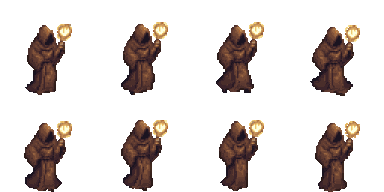
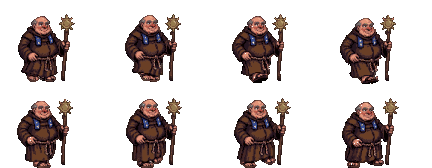
Loup, Moine et Troll : nouvelles images de combat et animations
Le loup redessiné (attaque en bond, marche gueule fermée), le Moine en frère
lanceur de sorts (une boule de lumière part de son bâton), le Troll calme à la
barbe sombre. Les anciennes images restent comme modèles dans tools/art/modeles.

diff --git a/godot/scripts/Game/BattleEffects.cs b/godot/scripts/Game/BattleEffects.cs
@@ -247,6 +247,7 @@ public sealed class BattleEffects
     private static double Speed(string kind) => kind switch
     {
         "boule-feu" => 1100,
+        "boule-lumiere" => 1100,
         "boule-poison" => 1500,
         "hache" => 1200,
         "feuilles" => 1000,
@@ -263,6 +264,7 @@ public sealed class BattleEffects
     {
         "fleche" => "piqure",
         "boule-feu" => "feu",
+        "boule-lumiere" => "lumiere",
         "eclair" => "eclair",
         "rayon" => "rayon",
         "boule-poison" => "poison",
@@ -663,6 +665,21 @@ public sealed class BattleEffects
                 Blob(canvas, here, 1, new Color(1, 0.85f + 0.15f * pulse, 0.45f));
                 break;
             }
+            case "boule-lumiere":
+            {
+                // le sort du Moine : une boule de lumière blanche et dorée qui palpite, des grains clairs qui s'éteignent derrière elle
+                float glow = 0.5f + 0.5f * MathF.Sin((float)p.Age * 30);
+                for (int k = 1; k <= 6; k++)
+                {
+                    float back = Math.Max(0, t - k * 0.035f);
+                    var c = new Color(1, 0.93f, 0.65f, 0.9f - k * 0.13f);
+                    Blob(canvas, At(back) + new Vector2(0, ((k * 37) % 5 - 2) * U * 0.6f), k < 3 ? 1 : 0, c);
+                }
+                Blob(canvas, here, 4, new Color(1, 0.8f, 0.35f, 0.75f));
+                Blob(canvas, here, 3, new Color(1, 0.93f, 0.6f));
+                Blob(canvas, here, 1, new Color(1, 1, 0.85f + 0.15f * glow));
+                break;
+            }
             case "feuilles":
             {
                 // le sort du Druide : un tourbillon de feuilles vertes qui tourne sur lui-même, et des feuilles qui
@@ -1030,6 +1047,7 @@ public sealed class BattleEffects
             // un éclat bref et discret : quelques grains qui jaillissent puis tombent et s'éteignent
             "piqure" => (5, new[] { new Color(1, 1, 0.9f), new Color(0.6f, 0.45f, 0.3f) }, 7f, 1),
             "feu" => (9, new[] { new Color(1, 0.85f, 0.4f), new Color(1, 0.5f, 0.1f), new Color(0.6f, 0.2f, 0.1f) }, 9f, 2),
+            "lumiere" => (9, new[] { new Color(1, 1, 0.9f), new Color(1, 0.88f, 0.5f), new Color(0.9f, 0.68f, 0.3f) }, 9f, 2),
             "morsure" => (6, new[] { new Color(0.85f, 0.15f, 0.15f), new Color(1, 0.9f, 0.85f) }, 6f, 1),
             "poison" => (9, new[] { new Color(0.6f, 0.95f, 0.35f), new Color(0.3f, 0.6f, 0.2f) }, 8f, 1),
             "feuilles" => (12, new[] { new Color(0.55f, 0.85f, 0.3f), new Color(0.3f, 0.6f, 0.2f), new Color(0.8f, 0.9f, 0.35f) }, 10f, 1),

diff --git a/tools/art/creature.py b/tools/art/creature.py
@@ -115,7 +115,7 @@ def cmd_fixe(ident, lots=4, graine=0):
     donnees = charger()
     f, g = fiche(donnees, ident)
     description = g["debut"] + f["description"] + g["fin"]
-    style = f.get("style", BATAILLE + "/moine.png")
+    style = f.get("style", "tools/art/modeles/moine.png")
     angle = f"{f['angle']}::{g['usage_angle']}" if f.get("angle") else None
     refs = f.get("references", [])
     largeur, hauteur = f.get("generation", [104, 120])
